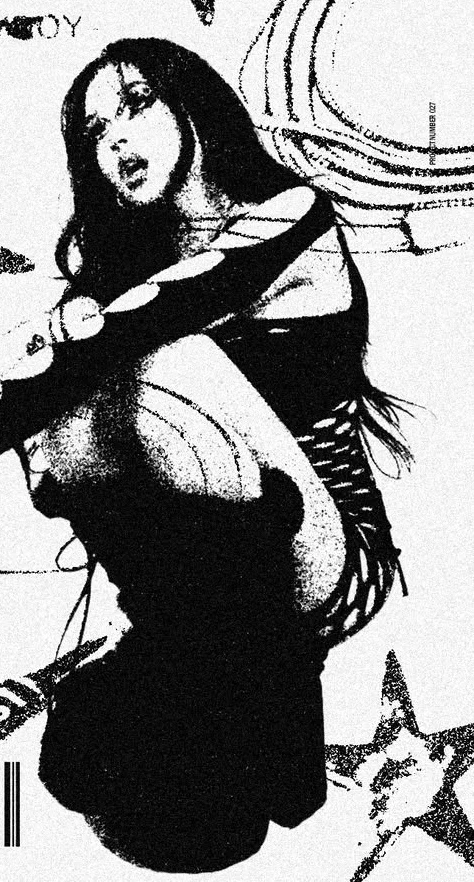
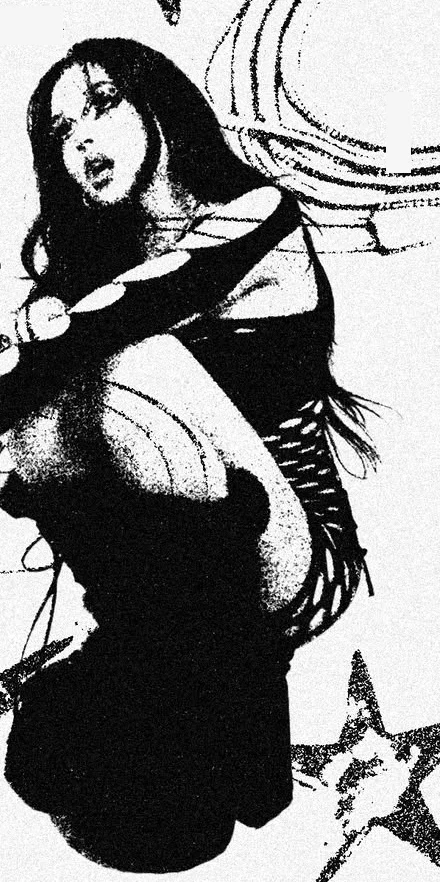
feat(frontend): sección de la tienda en dos columnas con un collage editorial acomodado según la postura de cada foto

Changed region(s): [[0.0, 0.0, 1.0, 1.0]]

diff --git a/frontend/src/components/home/ShopTabs.jsx b/frontend/src/components/home/ShopTabs.jsx
@@ -7,53 +7,56 @@ import eyes from "../../assets/cutouts/shop-eyes.webp";
 import zineA from "../../assets/cutouts/shop-zine-a.webp";
 import zineB from "../../assets/cutouts/shop-zine-b.webp";
 import face from "../../assets/cutouts/shop-face.webp";
+import poster from "../../assets/cutouts/shop-poster.webp";
 
 const PER_TAB = 4;
 
-// Piezas del collage de fondo (solo escritorio), todas en blanco y negro de alto contraste (estilo fotocopia),
-// repartidas por toda la sección y solapadas: tira de ojos en negativo a la izquierda, retrato punteado junto
-// al título, cara recortada a la derecha, un afiche claro abajo a la derecha y, al fondo, una banda ancha con
-// los ojos, muy tenue. `delay` escalona su entrada.
+// Collage de la columna izquierda (solo escritorio), todo en blanco y negro de alto contraste (estilo
+// fotocopia). Cada pieza se coloca según su postura: el afiche de la cadena arriba, mirando hacia la derecha; la
+// cara asoma por la esquina superior derecha hacia los productos; el retrato del brazo en alto sube por el
+// centro; los ojos lo cruzan por un lado; y la figura agachada, invertida, queda abajo estirando el brazo hacia
+// la cuadrícula. Las cintas rojas son el acento de la marca. `delay` escalona su entrada.
 const COLLAGE = [
   {
-    src: eyes,
+    src: poster,
     className:
-      "left-[0.5%] top-[34%] w-32 -rotate-3 opacity-80 shadow-[0_18px_30px_rgba(0,0,0,0.55)]",
-    delay: "0.3s",
+      "left-[1%] top-[3%] w-[84%] -rotate-[2.5deg] shadow-[0_26px_40px_rgba(0,0,0,0.65)]",
+    delay: "0.2s",
   },
   {
     src: zineA,
     className:
-      "right-[28%] top-16 w-44 rotate-[2.5deg] border border-white/25 shadow-[0_22px_34px_rgba(0,0,0,0.6)]",
-    delay: "0.45s",
-  },
-  {
-    src: face,
-    className: "right-[1.5%] -top-6 h-[31rem] w-auto max-w-none",
-    style: {
-      WebkitMaskImage: "linear-gradient(to bottom, #000 55%, transparent)",
-      maskImage: "linear-gradient(to bottom, #000 55%, transparent)",
-    },
-    delay: "0.6s",
-  },
-  {
-    src: zineB,
-    className:
-      "bottom-4 right-[1.5%] h-36 w-44 -rotate-6 object-cover object-[55%_30%] opacity-90 shadow-[0_22px_34px_rgba(0,0,0,0.6)]",
-    delay: "0.75s",
+      "left-[6%] top-[37%] w-[40%] rotate-[3deg] border border-white/25 shadow-[0_26px_40px_rgba(0,0,0,0.7)]",
+    delay: "0.4s",
   },
   {
     src: eyes,
     className:
-      "inset-x-0 bottom-0 h-64 w-full object-cover object-[50%_14%] opacity-25 mix-blend-screen",
-    style: {
-      WebkitMaskImage:
-        "linear-gradient(to top, transparent, #000 22%, #000 40%, transparent)",
-      maskImage:
-        "linear-gradient(to top, transparent, #000 22%, #000 40%, transparent)",
-    },
-    delay: "0.2s",
+      "right-[3%] top-[60%] w-[29%] rotate-[4deg] opacity-90 shadow-[0_22px_34px_rgba(0,0,0,0.65)]",
+    delay: "0.55s",
   },
+  {
+    src: face,
+    className: "-right-[9%] -top-[2%] h-[33%] w-auto max-w-none",
+    style: {
+      WebkitMaskImage: "linear-gradient(to bottom, #000 58%, transparent)",
+      maskImage: "linear-gradient(to bottom, #000 58%, transparent)",
+    },
+    delay: "0.7s",
+  },
+  {
+    src: zineB,
+    className:
+      "bottom-[1%] left-[16%] w-[50%] -scale-x-100 rotate-[4deg] opacity-95 shadow-[0_26px_40px_rgba(0,0,0,0.65)]",
+    delay: "0.85s",
+  },
+];
+
+// Cintas rojas pegadas en las esquinas de las piezas.
+const TAPES = [
+  "left-[-2%] top-[2%] -rotate-[38deg]",
+  "left-[34%] top-[35.5%] rotate-[8deg]",
+  "left-[56%] bottom-[28%] -rotate-[24deg]",
 ];
 
 // Tienda de la landing con pestañas: Todo y una por categoría, con 4 productos cada una. Carga el
@@ -98,90 +101,116 @@ function ShopTabs() {
     }`;
 
   return (
-    <section className="relative overflow-hidden bg-black px-6 py-16 text-white">
-      {/* Fondo de collage estilo fotocopia repartido por toda la sección; el contenido va por encima (z-10). */}
-      <div
+    <section className="relative overflow-hidden bg-black px-6 py-16 text-white sm:px-10">
+      {/* Banda ancha con los ojos, muy tenue, que cierra la sección por abajo (solo escritorio). */}
+      <img
+        src={eyes}
+        alt=""
         aria-hidden="true"
-        className="pointer-events-none absolute inset-0 hidden lg:block"
-      >
-        {COLLAGE.map((piece) => (
-          <img
-            key={`${piece.src}-${piece.delay}`}
-            src={piece.src}
-            alt=""
-            loading="lazy"
-            className={`shop-piece absolute ${piece.className}`}
-            style={{ ...piece.style, "--piece-delay": piece.delay }}
-          />
-        ))}
-      </div>
-      <div className="relative z-10 mx-auto max-w-6xl">
-        <p className="font-mono text-[11px] uppercase tracking-[0.3em] text-white/60">
-          Tienda
-        </p>
-        <h2 className="mt-3 font-condensed text-7xl font-light uppercase tracking-[-0.01em] sm:text-8xl">
-          Be unique
-        </h2>
+        loading="lazy"
+        className="shop-piece pointer-events-none absolute inset-x-0 bottom-0 hidden h-64 w-full object-cover object-[50%_14%] opacity-20 mix-blend-screen lg:block"
+        style={{
+          WebkitMaskImage:
+            "linear-gradient(to top, transparent, #000 22%, #000 40%, transparent)",
+          maskImage:
+            "linear-gradient(to top, transparent, #000 22%, #000 40%, transparent)",
+          "--piece-delay": "0.2s",
+        }}
+      />
 
+      <div className="relative z-10 mx-auto grid max-w-7xl gap-12 lg:grid-cols-[5fr_7fr]">
+        {/* Collage de la izquierda: ocupa todo el alto de la sección. */}
         <div
-          role="tablist"
-          aria-label="Categorías"
-          className="no-scrollbar mt-8 flex gap-8 overflow-x-auto border-b border-white/10"
+          aria-hidden="true"
+          className="pointer-events-none relative hidden min-h-[58rem] lg:block"
         >
-          <button
-            type="button"
-            role="tab"
-            aria-selected={selected === null}
-            onClick={() => setSelected(null)}
-            className={tabClass(selected === null)}
-          >
-            Todo
-          </button>
-          {categories.map((category) => (
-            <button
-              key={category.id}
-              type="button"
-              role="tab"
-              aria-selected={selected === category.slug}
-              onClick={() => setSelected(category.slug)}
-              className={tabClass(selected === category.slug)}
-            >
-              {category.name}
-            </button>
+          {COLLAGE.map((piece) => (
+            <img
+              key={`${piece.src}-${piece.delay}`}
+              src={piece.src}
+              alt=""
+              loading="lazy"
+              className={`shop-piece absolute ${piece.className}`}
+              style={{ ...piece.style, "--piece-delay": piece.delay }}
+            />
+          ))}
+          {TAPES.map((position) => (
+            <span
+              key={position}
+              className={`shop-piece absolute z-10 h-6 w-20 bg-accent/90 shadow-md ${position}`}
+              style={{ "--piece-delay": "0.9s" }}
+            />
           ))}
         </div>
 
-        {loading && (
-          <div className="mt-8 grid grid-cols-2 gap-6 lg:grid-cols-4">
-            {Array.from({ length: PER_TAB }, (_, i) => (
-              <div
-                key={i}
-                className="aspect-[3/4] animate-pulse rounded-lg bg-neutral-900"
-              />
-            ))}
-          </div>
-        )}
-        {error && <p className="mt-8 text-accent">{error}</p>}
+        <div>
+          <p className="font-mono text-[11px] uppercase tracking-[0.3em] text-white/60">
+            Tienda
+          </p>
+          <h2 className="mt-3 font-condensed text-7xl font-light uppercase tracking-[-0.01em] sm:text-8xl">
+            Be unique
+          </h2>
 
-        {!loading && !error && (
           <div
-            key={selected ?? "todo"}
-            role="tabpanel"
-            className="mt-8 grid grid-cols-2 gap-6 lg:grid-cols-4"
+            role="tablist"
+            aria-label="Categorías"
+            className="no-scrollbar mt-8 flex gap-8 overflow-x-auto border-b border-white/10"
           >
-            {visible.map((product, index) => (
-              <ProductCard key={product.id} product={product} index={index} />
+            <button
+              type="button"
+              role="tab"
+              aria-selected={selected === null}
+              onClick={() => setSelected(null)}
+              className={tabClass(selected === null)}
+            >
+              Todo
+            </button>
+            {categories.map((category) => (
+              <button
+                key={category.id}
+                type="button"
+                role="tab"
+                aria-selected={selected === category.slug}
+                onClick={() => setSelected(category.slug)}
+                className={tabClass(selected === category.slug)}
+              >
+                {category.name}
+              </button>
             ))}
           </div>
-        )}
 
-        <div className="mt-10 text-center">
-          <Link
-            to={selected ? `/catalogo?categoria=${selected}` : "/catalogo"}
-            className="btn-sweep inline-block border border-white/70 px-8 py-3 font-display text-xs uppercase tracking-widest transition hover:bg-white hover:text-black"
-          >
-            Ver todo
-          </Link>
+          {loading && (
+            <div className="mt-8 grid grid-cols-2 gap-x-5 gap-y-8">
+              {Array.from({ length: PER_TAB }, (_, i) => (
+                <div
+                  key={i}
+                  className="aspect-[3/4] animate-pulse rounded-lg bg-neutral-900"
+                />
+              ))}
+            </div>
+          )}
+          {error && <p className="mt-8 text-accent">{error}</p>}
+
+          {!loading && !error && (
+            <div
+              key={selected ?? "todo"}
+              role="tabpanel"
+              className="mt-8 grid grid-cols-2 gap-x-5 gap-y-8"
+            >
+              {visible.map((product, index) => (
+                <ProductCard key={product.id} product={product} index={index} />
+              ))}
+            </div>
+          )}
+
+          <div className="mt-10 text-center">
+            <Link
+              to={selected ? `/catalogo?categoria=${selected}` : "/catalogo"}
+              className="btn-sweep inline-block border border-white/70 px-8 py-3 font-display text-xs uppercase tracking-widest transition hover:bg-white hover:text-black"
+            >
+              Ver todo
+            </Link>
+          </div>
         </div>
       </div>
     </section>

diff --git a/docs/manual-programador.md b/docs/manual-programador.md
@@ -183,7 +183,7 @@ Todo el movimiento respeta `prefers-reduced-motion: reduce` (CSS en `index.css`,
 | Hero | `JennieHero.jsx`, `index.css` | Inspirado en offform.net: las tres fotos (`hero-left/center/right.jpg`, con su `position` de encuadre) ocupan toda la sección en una cuadrícula de 3 columnas y se revelan de arriba hacia abajo con `clip-path` (0,65 s, escalonado). Encima, un degradado oscuro, el titular condensado (Antonio), la etiqueta en monoespaciada y el botón **Ver tienda**. No repite las colecciones ni las categorías, que ya están en las secciones de abajo y en el menú. |
 | Lookbook tipo póster | `PosterLookbook.jsx`, `assets/cutouts/*.webp` | Sección de pantalla completa (`h-screen`) en versión clara (fondo `#e9e9e9`, tipografía negra), en capas de atrás hacia delante: luz suave, título en dos líneas alineado a la izquierda (**«Idol»** y **«JENNIE»** en Bodoni Moda 600; la «I» con serifas se distingue de la «l»), **RUBY** negro en el suelo (perspectiva con `rotateX` y `rotateZ`, cortado por los bordes), el texto «Lookbook», la lista vertical «In my Ruby era» (con «Ruby» en el rojo de acento) y tres figuras recortadas en blanco y negro con sombra suave que se montan sobre el título. Sin botón propio a la tienda (el del hero y el menú ya bastan). Cada capa usa el componente `Layer`: entra subiendo, se desplaza con el mouse a distinta velocidad (`depth`) y, con `useScroll`, sube a su propio ritmo al hacer scroll (`rise`). |
 | Tarjetas de colecciones | `CollectionCards.jsx`, `data/collections.js` | Una tarjeta 4:5 por colección con su foto (`bannerImage` o `image`, con `bannerPosition`/`imagePosition`); tres lado a lado desde `md` y tira con `scroll-snap` en móvil. Al hover, zoom y sube la frase con el botón (solo con `hover: hover`). |
-| Tienda con pestañas | `ShopTabs.jsx` | Pestañas Todo y una por categoría con 4 productos (`ProductCard`). Carga categorías y catálogo una vez y filtra en el cliente; «Todo» muestra un producto de cada categoría. «Ver todo» enlaza a `/catalogo?categoria=…`. El título es «Be unique». El fondo (solo desde 1024 px, `z-10` para el contenido) es un collage estilo fotocopia, todo en blanco y negro de alto contraste, repartido por toda la sección y definido en `COLLAGE`: tira de ojos en negativo a la izquierda (`shop-eyes.webp`, invertida al prepararla), retrato punteado junto al título (`shop-zine-a.webp`), cara recortada en medios tonos a la derecha (`shop-face.webp`, con transparencia, desvanecida hacia abajo), un afiche claro abajo a la derecha (`shop-zine-b.webp`, recortado con `object-cover` para no tapar el precio) y una banda ancha con los ojos (`mix-blend-screen`, 25 %) enmascarada por arriba y por abajo. Las dos piezas `zine` son recortes sin texto de referencias de estilo; no se usan fotos en color para que todo case. Cada pieza entra con `.shop-piece` y un retraso (`--piece-delay`). |
+| Tienda con pestañas | `ShopTabs.jsx` | Pestañas Todo y una por categoría con 4 productos (`ProductCard`). Carga categorías y catálogo una vez y filtra en el cliente; «Todo» muestra un producto de cada categoría. «Ver todo» enlaza a `/catalogo?categoria=…`. El título es «Be unique». Desde 1024 px la sección es una cuadrícula de dos columnas (`5fr 7fr`): a la izquierda, un collage editorial estilo fotocopia, todo en blanco y negro de alto contraste, que ocupa el alto de la sección (`min-h-[58rem]`); a la derecha, título, pestañas y productos en una cuadrícula de 2×2. Las piezas están en `COLLAGE` y se colocan según su postura: el afiche de la cadena arriba (`shop-poster.webp`, recorte sin texto de una referencia), la cara recortada asomando por su esquina (`shop-face.webp`, con transparencia), el retrato del brazo en alto (`shop-zine-a.webp`), la tira de ojos (`shop-eyes.webp`, invertida al prepararla) y la figura agachada abajo, volteada con `-scale-x-100` para que mire hacia los productos (`shop-zine-b.webp`). Tres cintas rojas (`TAPES`, color de acento) pegan las esquinas y una banda de ojos muy tenue cierra la sección por abajo. Los textos de las referencias se tapan al preparar las imágenes. Cada pieza entra con `.shop-piece` y un retraso (`--piece-delay`). En móvil se oculta el collage y los productos ocupan todo el ancho. |
 | Catálogo | `Catalog.jsx`, `StoreGrid.jsx`, `FilterBar.jsx`, `ProductCard.jsx` | Misma tipografía que la home: etiqueta en monoespaciada y título «Catálogo» en Antonio (`clamp(4.5rem, 13vw, 11rem)`). `FilterBar` son pestañas numeradas (00 Todo, 01 Ropa…) sobre una línea fina, con el total de piezas a la derecha. `ProductCard` usa fotos de esquinas rectas con número de orden, nombre en mayúsculas y precio en monoespaciada; la oferta añade una etiqueta roja con el descuento. Cuadrícula de 2, 3 y 4 columnas, con más espacio vertical. |
 | Footer de la tienda | `ShopFooter.jsx`, `FooterReveal.jsx`, `App.jsx` | Footer revelado del catálogo (los productos usan `SlimFooter`, que toma el color de la colección con `--stage-color`), con la misma estructura y efecto que el de la home pero en grises cálidos (fondo `#12110F`, texto `#D6CCB8`, etiquetas `#837C71`) sacados de las fotos sepia. Dos fotos, una a cada lado, fundidas con el fondo por el lado interior y por arriba y abajo (`mask-image`); el contenido va centrado entre ellas. |
 | Cabecera de colección | `CollectionBanner.jsx`, `Collection.jsx`, `index.css` | Misma estética que el hero: etiqueta en monoespaciada, título enorme en Antonio y la foto grande (72 % del ancho) fundida con el color de la página por la izquierda y por abajo mediante `mask-image` (sin bordes, sirve para cualquier color de colección), como en la home y los footers. Si la colección define `secondImage` (hoy solo Fallen Angel) se muestra una segunda foto más pequeña, fundida por todos los bordes, arriba a la izquierda del título. La foto se revela de arriba hacia abajo con `clip-path` (`.collection-photo`) y se desplaza al 12 % del scroll (parallax). Muestra la frase y el número de piezas. Los colores salen de `theme` en `data/collections.js`; el texto hereda `color` de la página. En móvil la foto va de fondo, atenuada. | Cada colección puede llevar un dibujo de fondo (`art` en `data/collections.js`: Fallen Angel el lirio araña, Haribo el kanji cromado «愛» y Ruby la katana). Con `blend: "ink"` la imagen se invierte y se multiplica (queda en tinta oscura sobre el color de la página, para fondos claros); con `blend: "light"` se suma con `mix-blend-screen` (figura clara sobre página negra). Va al 30-40 % de opacidad, enmascarada por los bordes, solo desde 768 px y con aparición en fundido.

diff --git a/docs/manual-usuario.md b/docs/manual-usuario.md
@@ -18,7 +18,7 @@ Al entrar verás, de arriba abajo:
 2. **Portada:** tres fotos a pantalla completa, una junto a otra, que se revelan una tras otra; encima, el titular **«Wanna rock with this?»** y el botón **Ver tienda**. Al bajar, la portada se queda fija y se oscurece un poco mientras las colecciones suben por encima.
 3. **Colecciones:** tres tarjetas, una por colección, cada una con **su propio color** y su foto fundida en él: **Fallen Angel** (lila), **JENNIE x Haribo** (amarillo) y **JENNIE x Ruby** (negro y rojo). Al pasar el mouse sobre una tarjeta aparecen su frase y el botón **Ver colección**. En el celular se deslizan de lado.
 4. **Lookbook:** una sección de pantalla completa con el título **Idol / JENNIE** en letras negras enormes sobre un fondo gris claro, tres fotos recortadas en blanco y negro que se montan sobre las letras, un texto breve, la frase «In my Ruby era» en vertical a la derecha y **RUBY** en negro en el suelo; al mover el mouse y al hacer scroll, las fotos se desplazan a distinta velocidad para dar profundidad.
-5. **Be unique:** una mini tienda con pestañas (**Todo**, **Ropa**, **Abrigos**, **Accesorios** y **Música**) que muestra cuatro productos de la categoría elegida sin salir de la página. **Ver todo** abre el catálogo ya filtrado. En pantallas grandes, el fondo de toda la sección es un collage estilo fotocopia (rostros recortados, retratos punteados y tiras de ojos, todo en blanco y negro) que aparece poco a poco.
+5. **Be unique:** una mini tienda con pestañas (**Todo**, **Ropa**, **Abrigos**, **Accesorios** y **Música**) que muestra cuatro productos de la categoría elegida sin salir de la página. **Ver todo** abre el catálogo ya filtrado. En pantallas grandes, a la izquierda hay un collage estilo fotocopia en blanco y negro, con fotos pegadas con cinta roja que aparecen poco a poco, y a la derecha los productos en dos columnas.
 6. **Preguntas frecuentes (FAQs):** las tres preguntas esenciales; pulsa una para ver la respuesta.
 7. **Pie de página:** al llegar al final de la página de inicio aparece poco a poco, con la marca en grande y tres columnas de enlaces: **Colecciones**, **Cuenta** (catálogo, mi cuenta, carrito y acceso de administrador) y **Sígueme** (redes). En el resto de las páginas (catálogo, colecciones y productos) el pie es una franja delgada con la marca, los enlaces principales y las redes.
 
